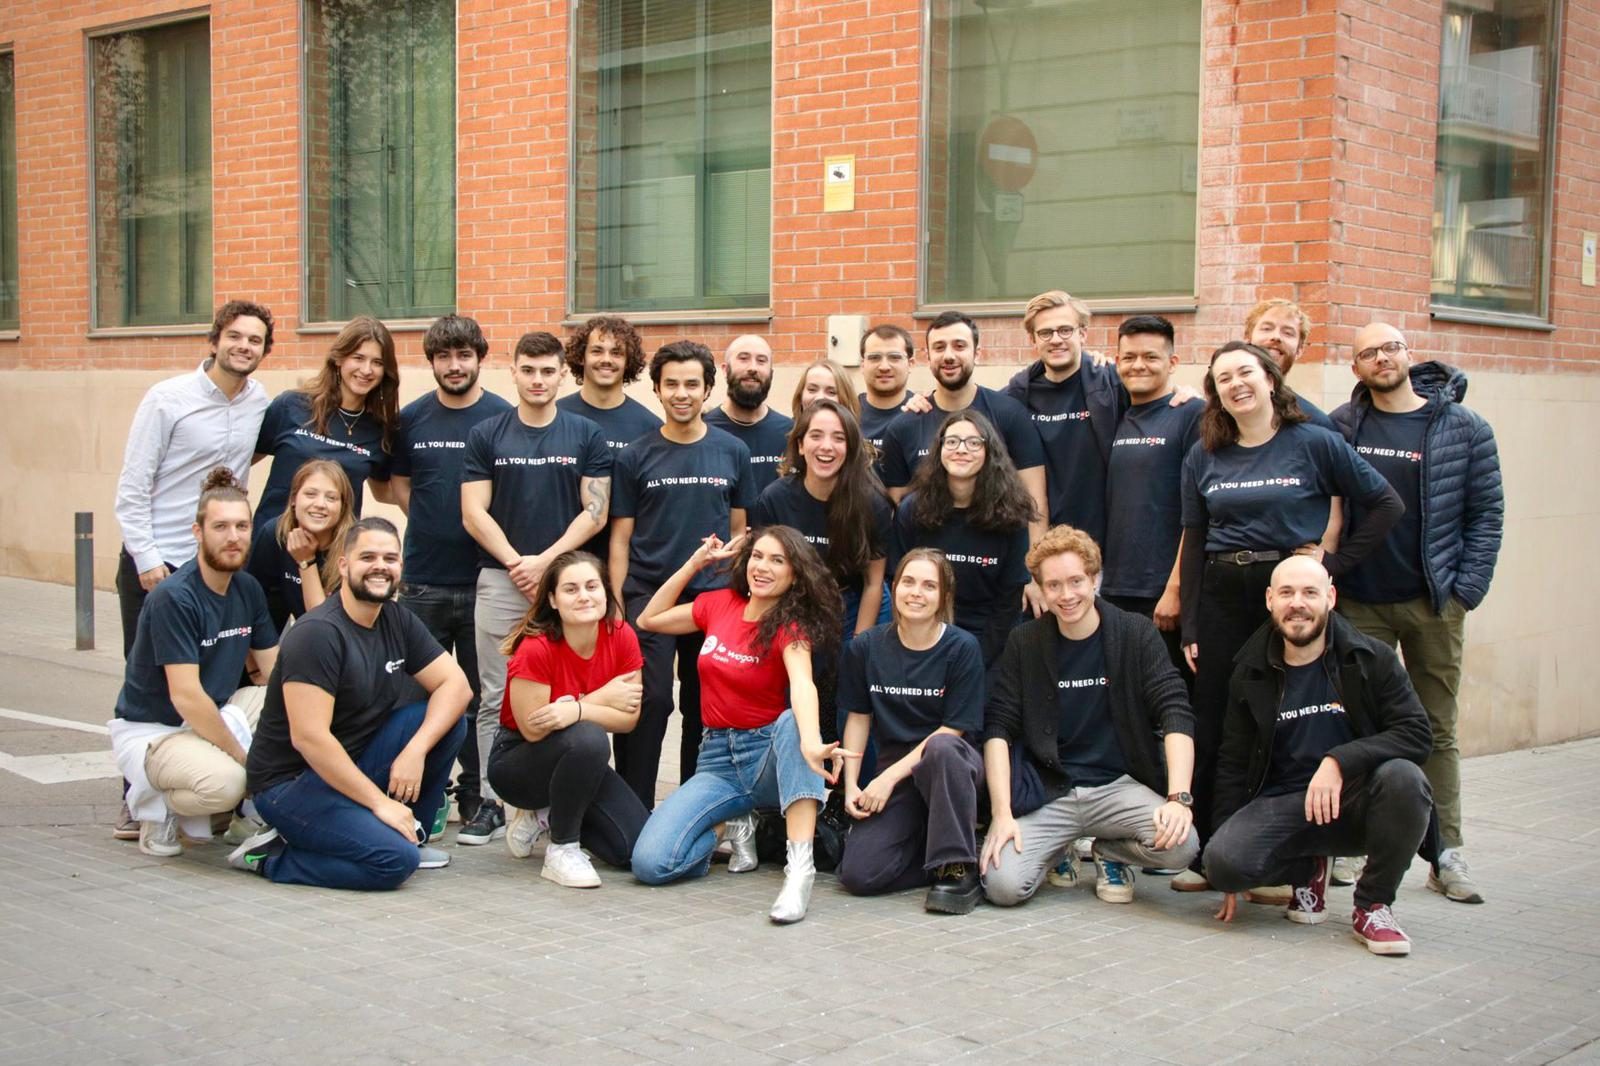
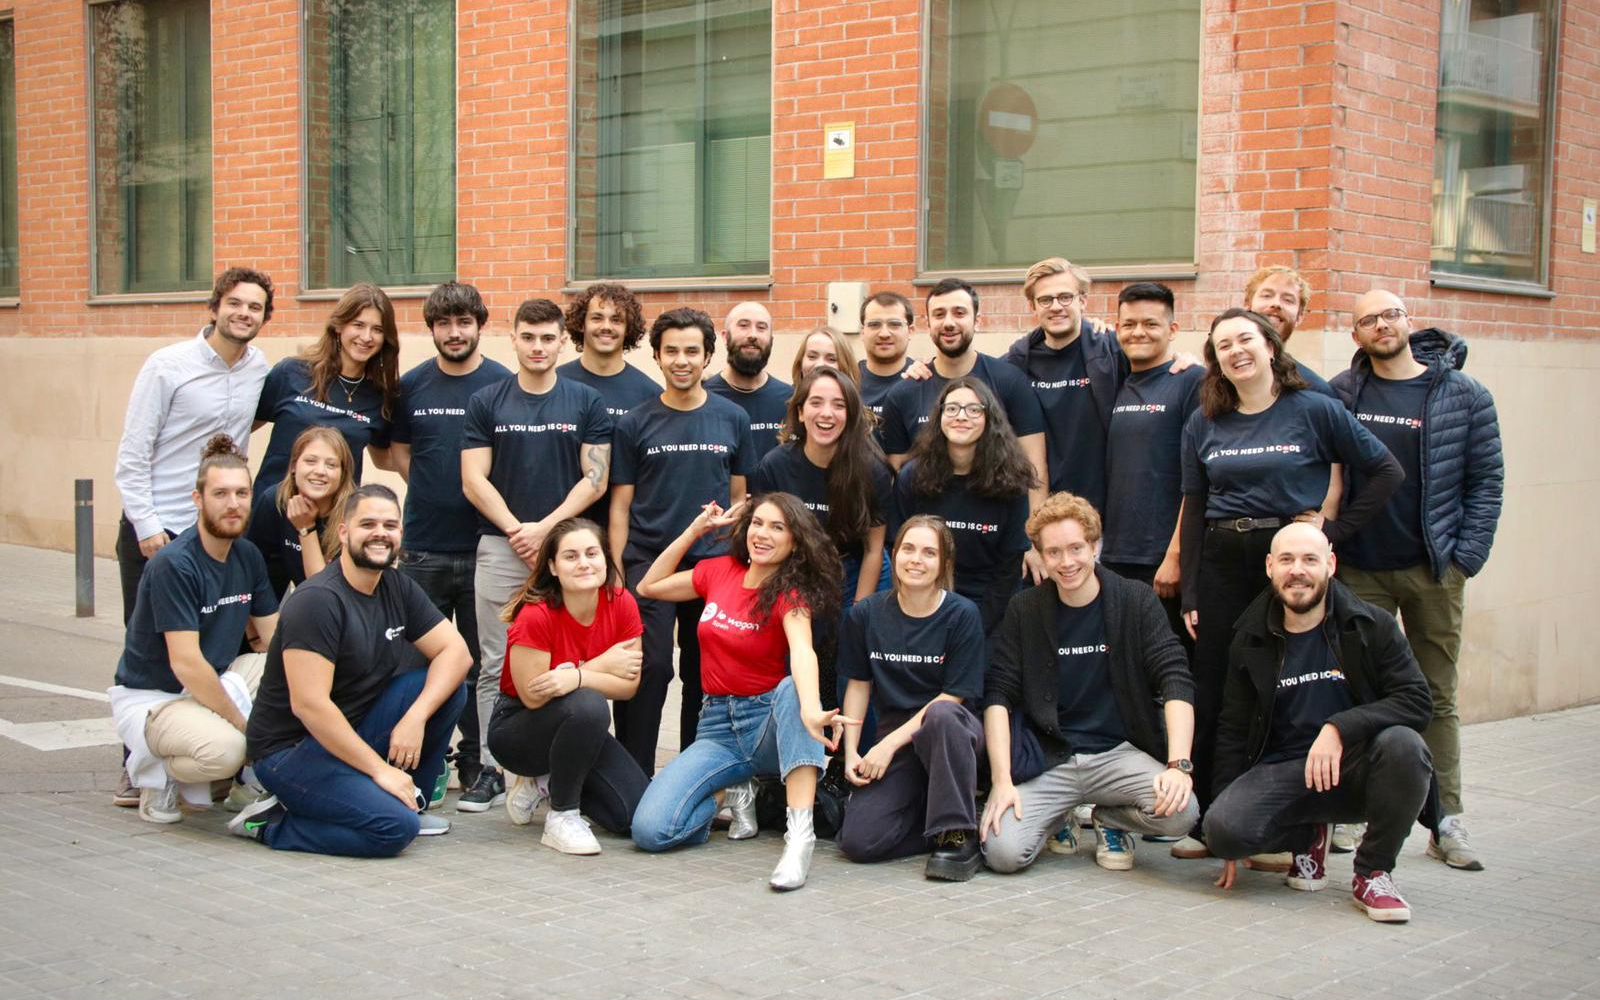
adding matrix to picture + distance function

Changed region(s): [[0.0, 0.0, 1.0, 0.93], [0.875, 0.527, 0.9375, 0.589], [0.0312, 0.589, 0.0625, 0.62]]

diff --git a/src/App.jsx b/src/App.jsx
@@ -2,16 +2,49 @@ import { GlobalStyle, ImageContainer, Wrapper } from "./styles";
 import Header from "./components/header";
 import Footer from "./components/footer";
 import ImgBox from "./components/imgBox";
+import React, { useState } from "react";
+
+const matrix = [
+  [0, 0], [1, 0], [2, 0], [3, 0], [4, 0], [5, 0], [6, 0], [7, 0],
+  [0, 1], [1, 1], [2, 1], [3, 1], [4, 1], [5, 1], [6, 1], [7, 1],
+  [0, 2], [1, 2], [2, 2], [3, 2], [4, 2], [5, 2], [6, 2], [7, 2],
+  [0, 3], [1, 3], [2, 3], [3, 3], [4, 3], [5, 3], [6, 3], [7, 3],
+  [0, 4], [1, 4], [2, 4], [3, 4], [4, 4], [5, 4], [6, 4], [7, 4]
+]
 
 const App = () => {
+  const [distance, setDistance] = useState(1)
+
+  const easing = (num) => Math.pow(num, 3)
+
+  const calculateDistance = ([x, y]) => {
+    const center = [window.innerWidth / 2, window.innerHeight / 2 ]
+    const maxHypot = Math.hypot(center[0], center[1])
+    const hypot = Math.hypot(center[0] - x, center[1] - y)
+    const distance = hypot / maxHypot
+    const easeDistance = easing(distance)
+    setDistance(easeDistance)
+  }
+  const handleMove = ({clientX, clientY}) => {
+    calculateDistance([clientX, clientY])
+  }
+
+  const handleTouchMove = ({touches}) => {
+    calculateDistance([touches[0].clientX, touches[0].clientY])
+  }
+
+  console.log(distance)
+
   return (
     <>
       <GlobalStyle />
       <Header />
       <Footer />
-      <Wrapper>
+      <Wrapper onMouseMove={handleMove} onTouchMove={handleTouchMove}>
         <ImageContainer>
-          <ImgBox />
+          {matrix.map(([x,y], index) => (
+            <ImgBox key={index} x={x} y={y} />
+          ))}
         </ImageContainer>
       </Wrapper>
     </>

diff --git a/src/components/imgBox/styles.js b/src/components/imgBox/styles.js
@@ -2,7 +2,8 @@ import styled from 'styled-components'
 
 export const Image = styled.div`
   background-image: url('/batch.jpeg');
-  background-size: 800px 533px;
+  background-size: 800px 500px;
   width: 100px;
-  height: 106px
+  height: 100px;
+  background-position: ${({$initialX, $initialY}) => `-${$initialX * 100}px -${$initialY * 100}px`};
 `

diff --git a/src/styles.js b/src/styles.js
@@ -29,11 +29,10 @@ export const Marginals = css`
 
 export const ImageContainer = styled.div`
   width: 800px;
-  height: 533px;
+  height: 500px;
   position: relative;
   display: flex;
   flex-wrap: wrap;
-
 `
 export const Wrapper = styled.section`
   display:flex;

diff --git a/src/components/imgBox/index.jsx b/src/components/imgBox/index.jsx
@@ -1,7 +1,7 @@
 import {Image} from "./styles"
 
-const ImgBox = () => {
-  return <Image />
+const ImgBox = ({x, y}) => {
+  return <Image $initialX={x} $initialY={y}/>
 }
 
 export default ImgBox;
